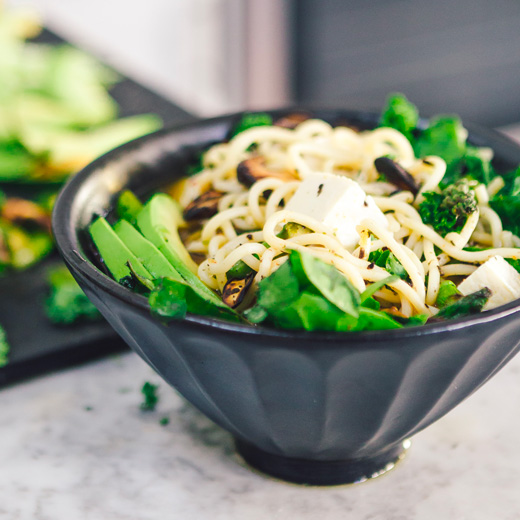
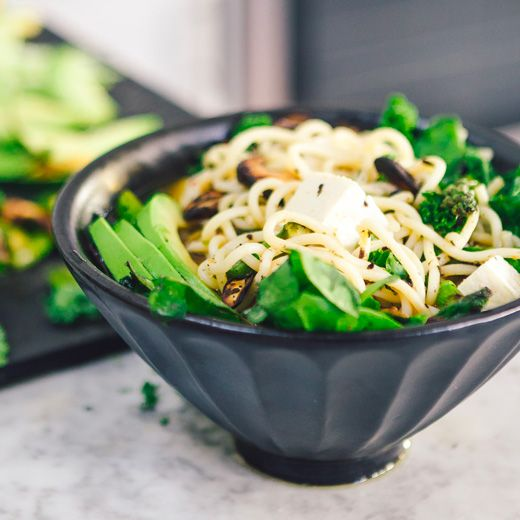
image compressed + new header

diff --git a/app/controllers/recipes_controller.rb b/app/controllers/recipes_controller.rb
@@ -3,10 +3,10 @@ class RecipesController < ApplicationController
   autocomplete :ingredient, :name, :display_value => :funky_method
 
   def index
-    @recipe = Recipe.new
+    recipe = Recipe.new
     unless params[:ingredient].to_s.empty? 
       puts params.inspect
-      selected_ingredients = @recipe.translate_input_ingredients_into_database_ingredients_ids(params[:ingredient])
+      selected_ingredients = recipe.translate_input_ingredients_into_database_ingredients_ids(params[:ingredient])
       @recipes = recipe.find_recipes_associated_with_ingredients(selected_ingredients)
     else
       @recipes = Recipe.all

diff --git a/app/helpers/recipes_helper.rb b/app/helpers/recipes_helper.rb
@@ -1,7 +1,8 @@
 module RecipesHelper
 
   def is_current_user_the_creator?
-    current_user == @recipe.user_id
+    recipe = @recipe
+    current_user == recipe.user_id
   end
 
 end
